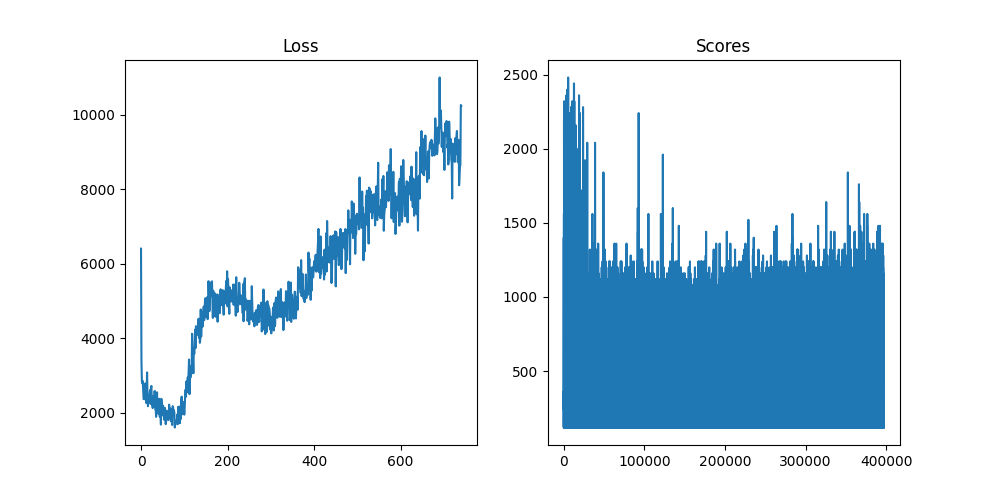
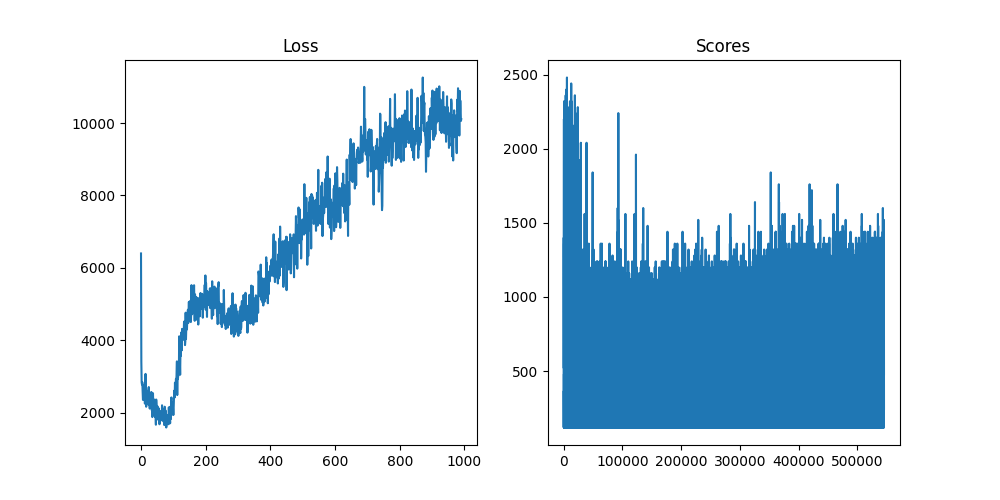
change accumulate

diff --git a/agents/actor_critic_agent_v3.py b/agents/actor_critic_agent_v3.py
@@ -104,7 +104,8 @@ class PPOAgent():
             state_tensor = state_tensor.unsqueeze(0)
             
         action_logits, value = self.network(state_tensor)
-        value = value.squeeze(-1)
+        # Clone value to avoid CUDA Graph memory overwrite issues
+        value = value.clone().squeeze(-1)
         
         m = Categorical(logits=action_logits)
         action = m.sample()
@@ -251,6 +252,13 @@ class Trainer():
 
         # 剥离可能存在的 Wrapper 以获取原始环境属性
         self.env_base = self.env.unwrapped
+        
+    def compile_agent_network(self, agent):
+        """编译 PPO Agent 中的 ActorCriticNetwork"""
+        # 
+        if hasattr(agent.network, 'shared_trunk') and torch.cuda.is_available():
+             print("Compiling ActorCriticNetwork for performance...")
+             agent.network = torch.compile(agent.network, fullgraph=True, mode="reduce-overhead")
 
     def num_observations(self):
         """返回转换后的观察空间维度"""
@@ -260,6 +268,9 @@ class Trainer():
     def num_actions(self):
         """返回动作空间维度"""
         return self.env.action_space.n
+
+    def get_render_info(self):
+        return self.env_base._scene._render_info
 
     def _transform_observation(self, observation):
         """

diff --git a/game_render.py b/game_render.py
@@ -2,7 +2,7 @@ import gymnasium as gym
 import pygame
 import torch
 
-from agents import ACAgent3, TrainerAC3
+from agents import PPOAgent, Trainer
 from agents import KeyboardAgent
 from agents import PlayerQ
 from agents import ReinforceAgentV2, PlayerV2
@@ -160,12 +160,12 @@ if __name__ == "__main__":
             agent = torch.load(load_path, weights_only=False, map_location="cpu")
 
     if agent_type == "AC":
-        env = TrainerAC3(render=False, max_frames=500 * config.FPS)
-        agent = ACAgent3(
+        env = Trainer(render=False, max_frames=500 * config.FPS)
+        agent = PPOAgent(
             input_size=env.num_observations(),
-            possible_actions=env.get_actions()
+            possible_actions=list(range(env.num_actions()))
         )
-        agent.load("agents/agent_zoo/ac_policy_v1", "agents/agent_zoo/ac_value_v1")
+        agent.load("ppo_vec_agent.pth")
 
     if agent_type == "Keyboard":
         env = PlayerV2(render=True, max_frames=500 * config.FPS)

diff --git a/gym_pvz/envs/pvz_env_v2.py b/gym_pvz/envs/pvz_env_v2.py
@@ -39,15 +39,17 @@ class PVZEnv_V2(gym.Env):
         """
         # Apply action
         self._take_action(action)
+        prev_score = self._scene.score
         self._scene.step()  # Minimum one step
-        reward = self._scene.score
+        reward = self._scene.score - prev_score
         # Check if episode ended by time limit
         truncated = self._scene._chrono > config.MAX_FRAMES
         # Continue stepping until another move is available
         while (not self._scene.move_available()) and (not truncated):
+            prev_score = self._scene.score
             self._scene.step()
             truncated = self._scene._chrono > config.MAX_FRAMES
-            reward += self._scene.score
+            reward += self._scene.score - prev_score
         # Observation
         obs = self._get_obs()
         # Episode ends if lives run out OR time limit reached

diff --git a/train_ppo_vec.py b/train_ppo_vec.py
@@ -59,6 +59,8 @@ def train_vec(num_envs=32, n_iter=1000, n_steps=1024):
         mini_batch_size=256
     )
     
+    dummy_env.compile_agent_network(agent)
+    
     obs, _ = envs.reset()
     obs = transform_observation_batch(obs, grid_size)
     
@@ -109,7 +111,7 @@ def train_vec(num_envs=32, n_iter=1000, n_steps=1024):
     plt.savefig("training_vec_plot.png")
     plt.close()
     
-    agent.save("ppo_vec_agent_model.pth")
+    agent.save("ppo_vec_agent_model_2.pth")
 
     envs.close()
 
